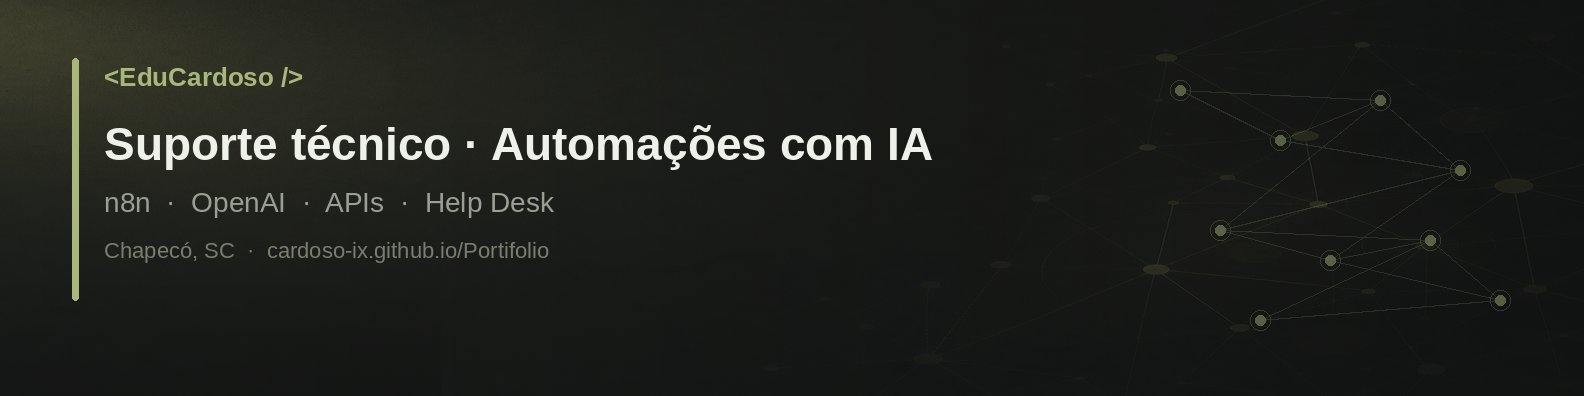
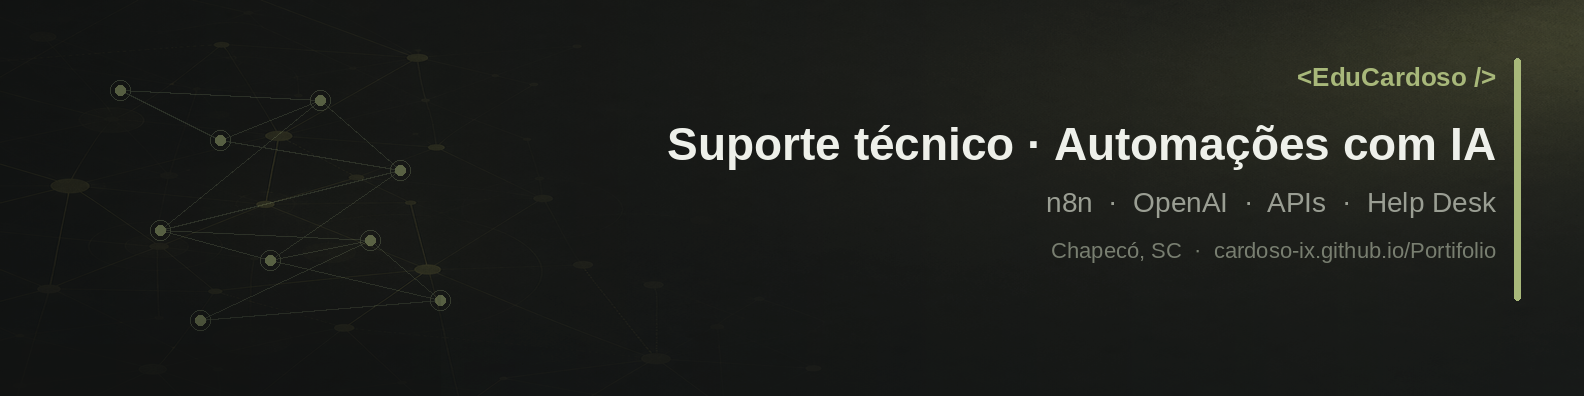
Move o texto da capa LinkedIn para a direita. (#18)
Espelha o layout: rede à esquerda (atrás da foto de perfil) e informações alinhadas à direita.

diff --git a/scripts/generate_linkedin_banner.py b/scripts/generate_linkedin_banner.py
@@ -1,7 +1,7 @@
 """Gera capa LinkedIn 1584x396 alinhada à identidade do portfólio."""
 from pathlib import Path
 
-from PIL import Image, ImageDraw, ImageFilter, ImageFont
+from PIL import Image, ImageDraw, ImageFont
 
 from font_utils import resolve_font
 
@@ -14,9 +14,9 @@ BG_CANDIDATES = [
 
 # LinkedIn recommended
 SIZE = (1584, 396)
+W, H = SIZE
 
 BG = (17, 18, 17)
-PANEL = (28, 30, 27)
 OLIVE = (168, 184, 122)
 TEXT = (238, 240, 234)
 MUTED = (154, 158, 147)
@@ -31,7 +31,6 @@ def find_generated_bg() -> Path | None:
     for path in BG_CANDIDATES:
         if path.is_file():
             return path
-    # Cursor GenerateImage often writes under /opt/cursor/artifacts or home
     for folder in (
         Path("/opt/cursor/artifacts"),
         Path.home() / ".cursor",
@@ -39,7 +38,11 @@ def find_generated_bg() -> Path | None:
     ):
         if not folder.exists():
             continue
-        matches = sorted(folder.rglob("*linkedin-banner-bg*.png"), key=lambda p: p.stat().st_mtime, reverse=True)
+        matches = sorted(
+            folder.rglob("*linkedin-banner-bg*.png"),
+            key=lambda p: p.stat().st_mtime,
+            reverse=True,
+        )
         if matches:
             return matches[0]
     return None
@@ -49,19 +52,19 @@ def make_base() -> Image.Image:
     img = Image.new("RGB", SIZE, BG)
     draw = ImageDraw.Draw(img)
 
-    # Soft olive wash from left
-    for x in range(SIZE[0]):
-        t = x / SIZE[0]
-        r = int(BG[0] + (SOFT[0] - BG[0]) * (1 - t) * 0.55)
-        g = int(BG[1] + (SOFT[1] - BG[1]) * (1 - t) * 0.55)
-        b = int(BG[2] + (SOFT[2] - BG[2]) * (1 - t) * 0.55)
-        draw.line([(x, 0), (x, SIZE[1])], fill=(r, g, b))
+    # Wash mais claro à direita (área do texto)
+    for x in range(W):
+        t = x / W
+        r = int(BG[0] + (SOFT[0] - BG[0]) * t * 0.55)
+        g = int(BG[1] + (SOFT[1] - BG[1]) * t * 0.55)
+        b = int(BG[2] + (SOFT[2] - BG[2]) * t * 0.55)
+        draw.line([(x, 0), (x, H)], fill=(r, g, b))
 
-    # Right-side abstract nodes (automation / support network)
+    # Rede abstrata à esquerda (fica atrás da foto de perfil)
     nodes = [
-        (1180, 90), (1280, 140), (1380, 100), (1460, 170),
-        (1220, 230), (1330, 260), (1430, 240), (1500, 300),
-        (1260, 320),
+        (120, 90), (220, 140), (320, 100), (400, 170),
+        (160, 230), (270, 260), (370, 240), (440, 300),
+        (200, 320),
     ]
     for i, (x1, y1) in enumerate(nodes):
         for j, (x2, y2) in enumerate(nodes):
@@ -76,38 +79,61 @@ def make_base() -> Image.Image:
 
 def blend_atmosphere(base: Image.Image, bg_path: Path) -> Image.Image:
     atm = Image.open(bg_path).convert("RGB")
+    # Espelha a atmosfera para o brilho/rede ficarem à esquerda
+    atm = atm.transpose(Image.Transpose.FLIP_LEFT_RIGHT)
     atm = atm.resize(SIZE, Image.Resampling.LANCZOS)
-    # Darken slightly so text stays readable
     overlay = Image.new("RGB", SIZE, BG)
     atm = Image.blend(atm, overlay, 0.42)
     return Image.blend(base, atm, 0.55)
 
 
 def apply_profile_safe_fade(img: Image.Image) -> Image.Image:
-    """Escurece levemente o canto inferior esquerdo (área da foto de perfil)."""
+    """Escurece o canto inferior esquerdo (área da foto de perfil no LinkedIn)."""
     rgba = img.convert("RGBA")
     fade = Image.new("RGBA", SIZE, (0, 0, 0, 0))
     fade_draw = ImageDraw.Draw(fade)
-    for y in range(270, SIZE[1]):
-        alpha = int(110 * ((y - 270) / max(1, SIZE[1] - 270)))
+    for y in range(270, H):
+        alpha = int(110 * ((y - 270) / max(1, H - 270)))
         fade_draw.line([(0, y), (440, y)], fill=(17, 18, 17, alpha))
     return Image.alpha_composite(rgba, fade).convert("RGB")
 
 
 def draw_text(img: Image.Image) -> None:
+    """Texto alinhado à direita — longe da foto de perfil."""
     draw = ImageDraw.Draw(img)
 
-    # Conteúdo à esquerda, acima da zona da foto de perfil no LinkedIn
     tag_font = load_font(26, bold=True)
     title_font = load_font(46, bold=True)
     sub_font = load_font(28)
     small_font = load_font(22)
 
-    draw.rounded_rectangle((72, 58, 78, 300), radius=3, fill=OLIVE)
-    draw.text((104, 62), "<EduCardoso />", font=tag_font, fill=OLIVE)
-    draw.text((104, 118), "Suporte técnico · Automações com IA", font=title_font, fill=TEXT)
-    draw.text((104, 186), "n8n  ·  OpenAI  ·  APIs  ·  Help Desk", font=sub_font, fill=MUTED)
-    draw.text((104, 238), "Chapecó, SC  ·  cardoso-ix.github.io/Portifolio", font=small_font, fill=(120, 126, 112))
+    right = W - 88  # margem direita
+
+    # Barra de acento à direita do bloco
+    draw.rounded_rectangle((right + 18, 58, right + 24, 300), radius=3, fill=OLIVE)
+
+    draw.text((right, 62), "<EduCardoso />", font=tag_font, fill=OLIVE, anchor="ra")
+    draw.text(
+        (right, 118),
+        "Suporte técnico · Automações com IA",
+        font=title_font,
+        fill=TEXT,
+        anchor="ra",
+    )
+    draw.text(
+        (right, 186),
+        "n8n  ·  OpenAI  ·  APIs  ·  Help Desk",
+        font=sub_font,
+        fill=MUTED,
+        anchor="ra",
+    )
+    draw.text(
+        (right, 238),
+        "Chapecó, SC  ·  cardoso-ix.github.io/Portifolio",
+        font=small_font,
+        fill=(120, 126, 112),
+        anchor="ra",
+    )
 
 
 def main() -> None:
@@ -124,7 +150,7 @@ def main() -> None:
     base = apply_profile_safe_fade(base)
     draw_text(base)
     base.save(OUTPUT, format="PNG", optimize=True)
-    print(f"Gerado: {OUTPUT} ({SIZE[0]}x{SIZE[1]})")
+    print(f"Gerado: {OUTPUT} ({W}x{H}) — texto à direita")
 
 
 if __name__ == "__main__":

diff --git a/docs/LINKEDIN-PERFIL.md b/docs/LINKEDIN-PERFIL.md
@@ -20,7 +20,7 @@ Arquivo gerado no tamanho recomendado do LinkedIn (**1584 × 396**):
 **Como usar**
 1. LinkedIn → foto da capa → Editar  
 2. Enviar `linkedin-banner.png`  
-3. Ajustar o enquadramento (o texto fica à esquerda, acima da foto de perfil)
+3. Ajustar o enquadramento (o texto fica à **direita**; a foto de perfil cobre o canto inferior esquerdo)
 
 Para regenerar: `python3 scripts/generate_linkedin_banner.py`
 